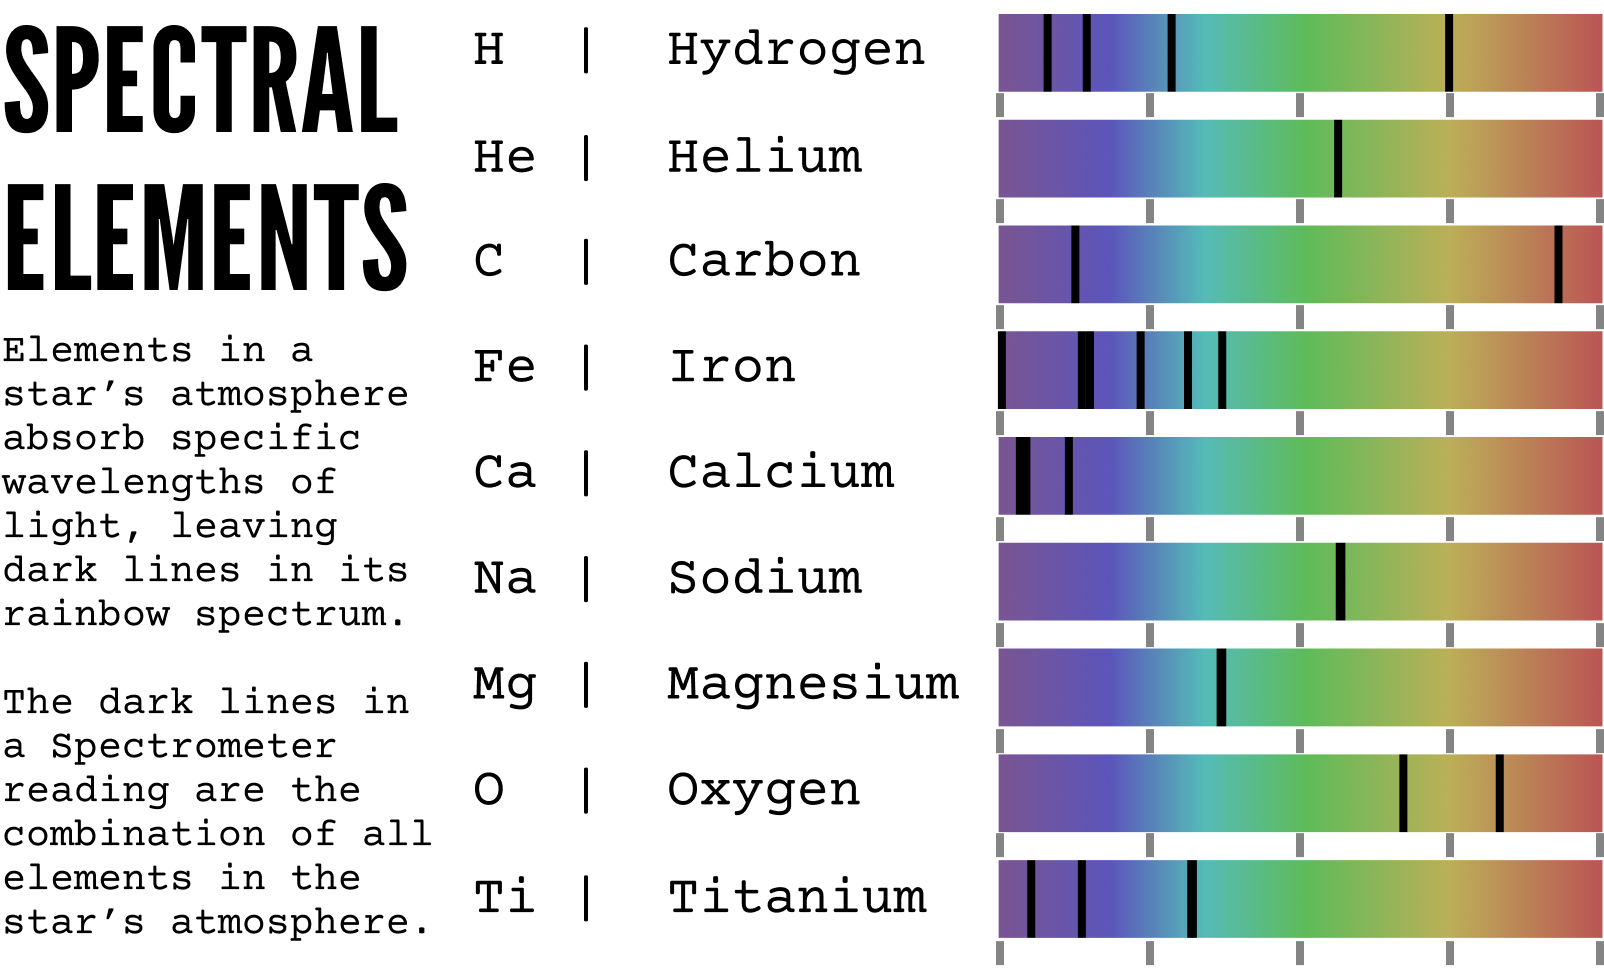
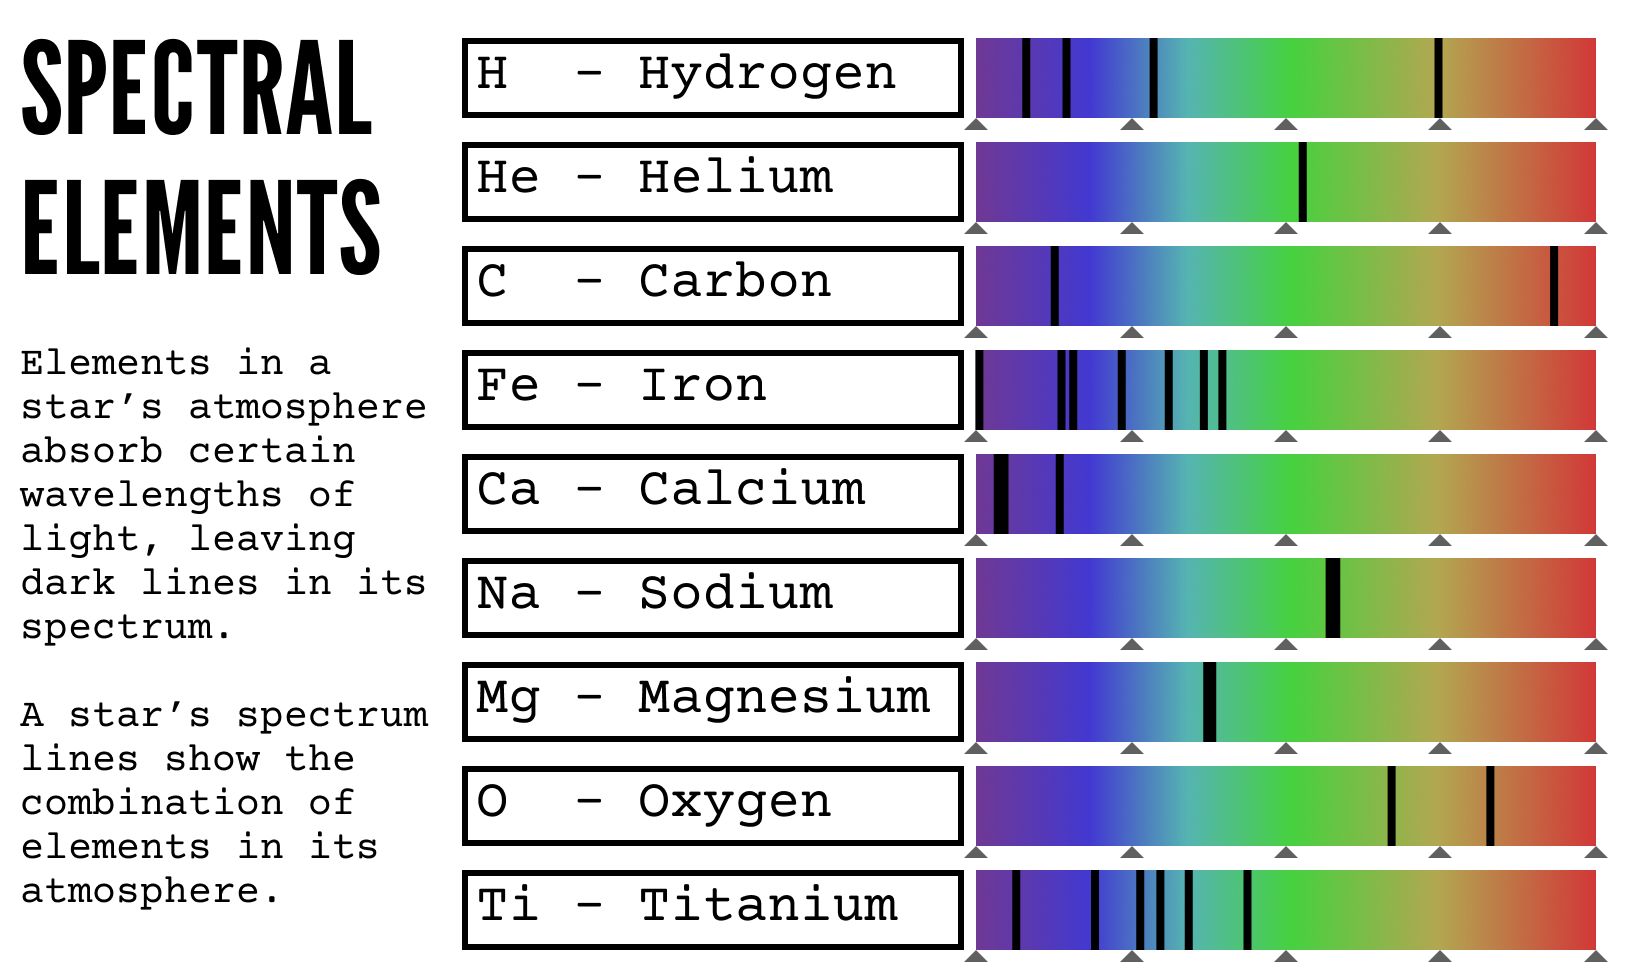
spectrometer tweaks
- fudge wavelength numbers to disambiguate
- change lines to darker arrows
- update elements page

diff --git a/Assets/Code/Instruments/SpectrometerState.cs b/Assets/Code/Instruments/SpectrometerState.cs
@@ -17,14 +17,16 @@ namespace Astro {
 
         public readonly Dictionary<SpectrographMaterialMask, int[]> Wavelengths = new Dictionary<SpectrographMaterialMask, int[]>() {
             [SpectrographMaterialMask.Hydrogen] = new int[] { 656, 486, 434, 410 },
-            [SpectrographMaterialMask.Helium] = new int[] { 588 },
+            [SpectrographMaterialMask.Helium] = new int[] { 575 }, // fictionalized
             [SpectrographMaterialMask.Carbon] = new int[] { 427, 723 },
-            [SpectrographMaterialMask.Iron] = new int[] { 517, 496, 467, 438, 431, 382 },
-            [SpectrographMaterialMask.Calcium] = new int[] { 423, 397, 393 },
-            [SpectrographMaterialMask.Sodium] = new int[] { 590, 589 },
-            [SpectrographMaterialMask.Magnesium] = new int[] { 517, 516 },
+            [SpectrographMaterialMask.Iron] = new int[] { 527, 516, 495, 467, 438, 431, 382 },
+            [SpectrographMaterialMask.Calcium] = new int[] { 430, 397, 393 },
+            [SpectrographMaterialMask.Sodium] = new int[] { 590, 595 },
+            [SpectrographMaterialMask.Magnesium] = new int[] { 518, 521 }, // fictionalized
             [SpectrographMaterialMask.Oxygen] = new int[] { 687, 628 },
-            [SpectrographMaterialMask.Titanium] = new int[] { 400, 431, 499 }
+            [SpectrographMaterialMask.Titanium] = new int[] { 404, 451, 478, 490, 507, 542},
+            [SpectrographMaterialMask.Lithium] = new int[] { 559, 677 } // fictionalized
+
         };
     }
 
